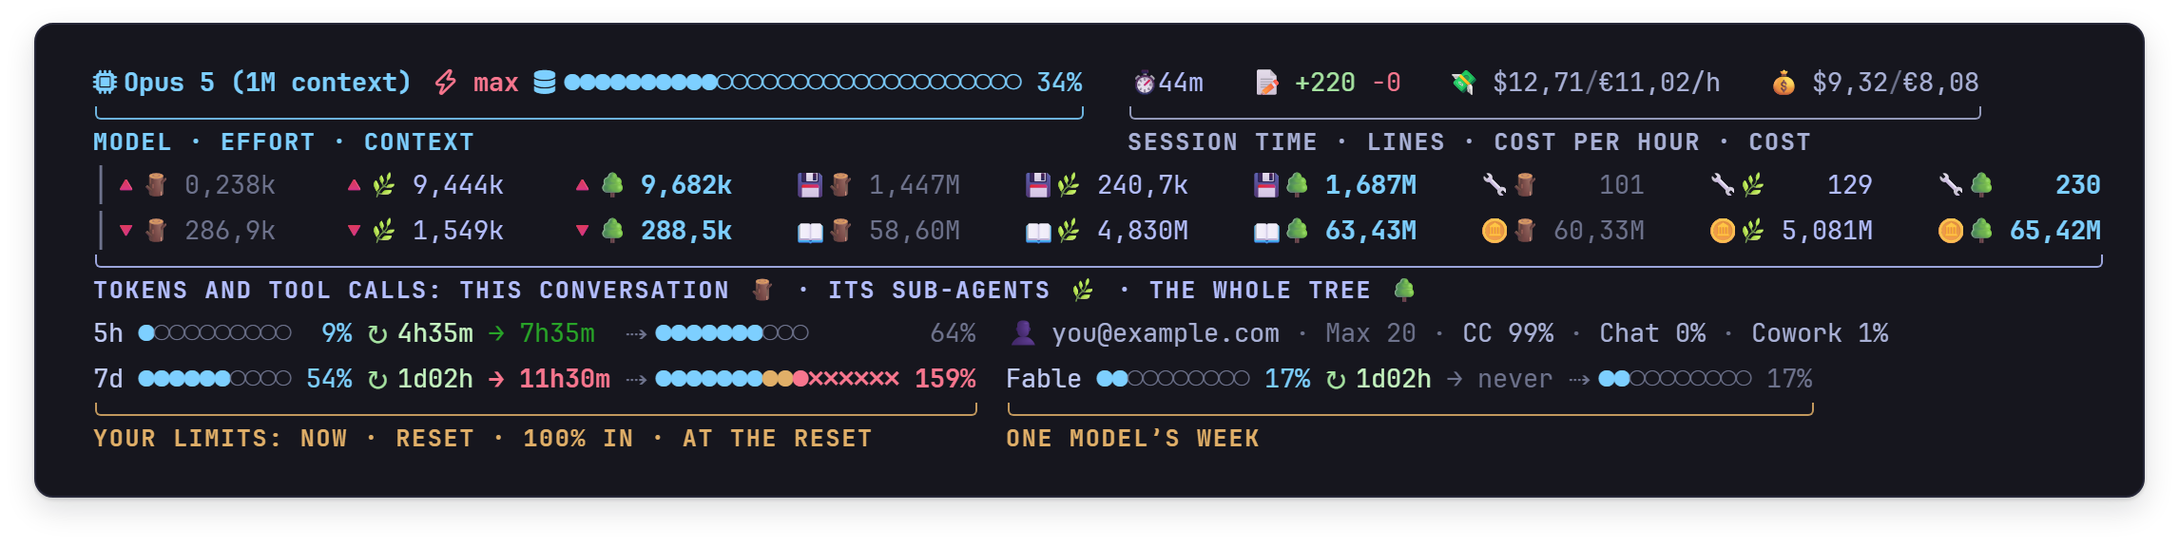
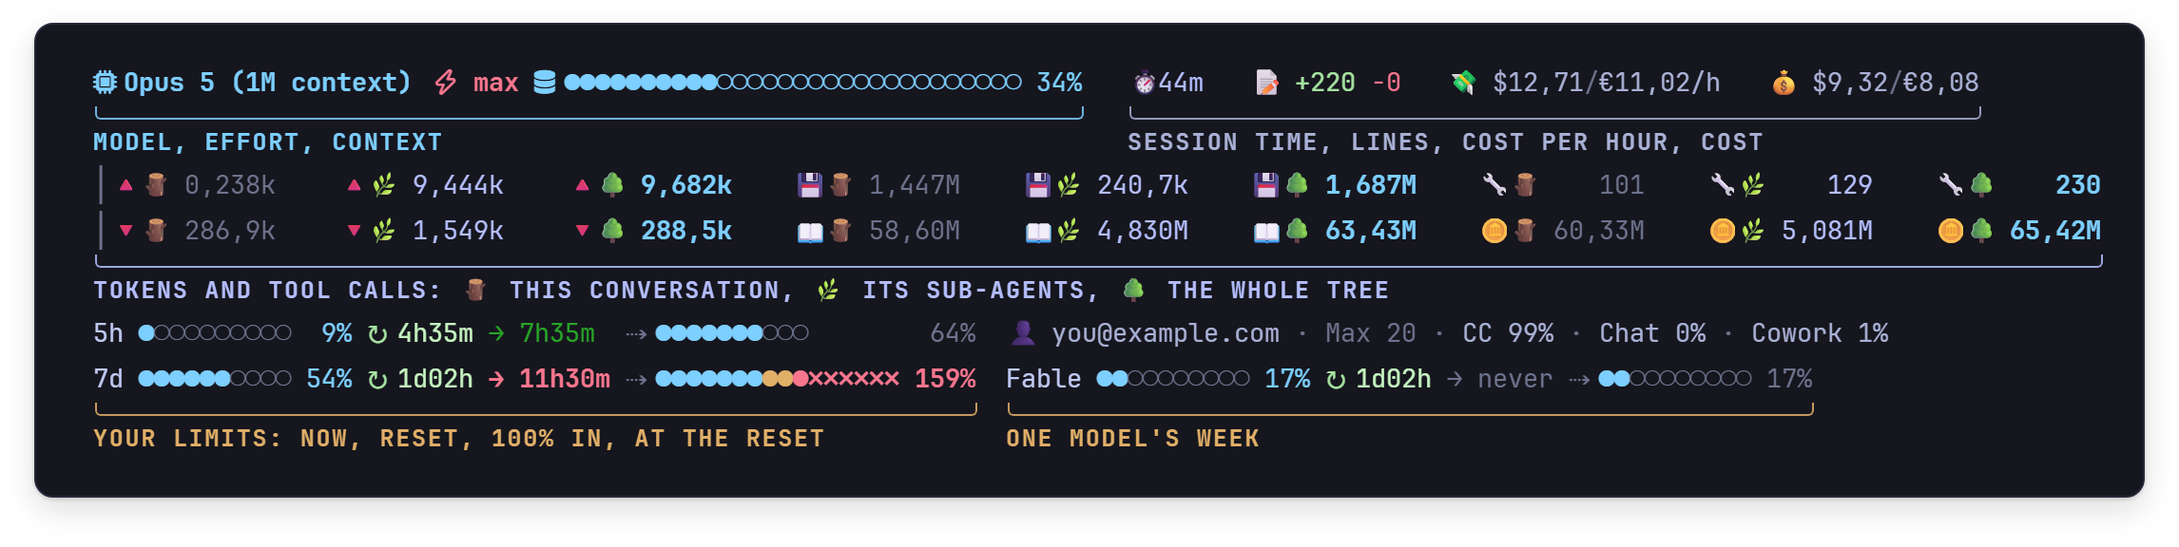
Use plain punctuation in the figures, their index and their generator

diff --git a/docs/assets/figures.gen.js b/docs/assets/figures.gen.js
@@ -11,13 +11,13 @@
 // device that stays dark in both themes. Here it is also the only thing on a transparent ground, so
 // a figure reads the same on GitHub's light and dark pages.
 //
-// Nothing on a terminal line is typed. Each figure names renders in tests/expected — the exact
-// bytes the deployed binary drew for a fixture at a width, which the render tests hold every build
-// to — and which of their lines and columns to show. So a figure cannot drift from the binary
-// without the render tests failing first, and a change of output recorded with
-// `Test-Renders.ps1 -Update` is the one reason to regenerate. The generator refuses to run on a
-// colour outside the palette, a glyph whose width it does not know, a callout whose text it cannot
-// find, a crop through a two-column cell, or a label that leaves its device or meets another.
+// Nothing on a terminal line is typed: each figure names renders in tests/expected (the exact bytes
+// the deployed binary drew for a fixture at a width, which the render tests hold every build to) and
+// which of their lines and columns to show. So a figure cannot drift from the binary without the
+// render tests failing first, and a change of output recorded with `Test-Renders.ps1 -Update` is the
+// one reason to regenerate. The generator refuses to run on a colour outside the palette, a glyph
+// whose width it does not know, a callout whose text it cannot find, a crop through a two-column
+// cell, or a label that leaves its device or meets another.
 'use strict';
 const fs = require('fs');
 const path = require('path');
@@ -28,7 +28,7 @@ const ROOT = path.resolve(__dirname, '..', '..');
 const EXPECTED = path.join(ROOT, 'tests', 'expected');
 const WORK = path.join(ROOT, '.work', 'figures');
 
-// ───────────────────────────────────────────── ANSI → cells
+// ---- ANSI to cells
 // Program.cs's palette, by the SGR triple it writes. cship adds one colour of its own: the model name
 // is "bold cyan" in config/cship.toml, ANSI colour 6, whose RGB is up to the terminal's scheme; it is
 // drawn as the palette's cyan, the colour the same config gives the context bar. Text with no colour
@@ -37,7 +37,7 @@ const RGB = { '125;207;255': 'cy', '224;175;104': 'or', '247;118;142': 'rd', '11
               '198;246;193': 'lg', '169;177;214': 'tx', '180;190;254': 'lv', '40;164;40': 'fo' };
 const ANSI = { 36: 'cy' };
 // How many columns Windows Terminal gives each character the renders contain. Wide: East-Asian Wide
-// with emoji presentation — the token grid is laid out on that assumption (install.md). Narrow:
+// with emoji presentation, which is what the token grid is laid out for (install.md). Narrow:
 // Neutral or Ambiguous, and the Private Use Area, where cship's two Nerd Font icons live. Anything
 // else stops the generator until someone has looked its width up.
 const NARROW = new Set([0xB7, 0x2014, 0x2026, 0x20AC, 0x2192, 0x21BB, 0x21E2, 0x23F1, 0x2502, 0x25CB, 0x25CF, 0x26A0, 0x2717]);
@@ -72,7 +72,7 @@ function toCells(line) {
   return out;
 }
 const width = cells => cells.reduce((n, c) => n + c.w, 0);
-// The plain text with one UTF-16 unit per column — a wide emoji is already two, ⚡ gets a filler —
+// The plain text with one UTF-16 unit per column (a wide emoji is already two, ⚡ gets a filler),
 // so a regex match index is a column. Match without the u flag.
 const colText = cells => cells.map(c => c.w === 2 && c.ch.length === 1 ? c.ch + '\u200B' : c.ch).join('');
 function span(cells, re, from = 0) {
@@ -86,7 +86,7 @@ function crop(cells, c0, c1 = Infinity) {
   for (const c of cells) {
     const a = col, b = col + c.w; col = b;
     if (b <= c0 || a >= c1) continue;
-    if (a < c0 || b > c1) throw new Error(`a crop at columns ${c0}–${c1} splits ${JSON.stringify(c.ch)} at ${a}`);
+    if (a < c0 || b > c1) throw new Error(`a crop at columns ${c0}-${c1} splits ${JSON.stringify(c.ch)} at ${a}`);
     out.push(c);
   }
   return out;
@@ -109,11 +109,11 @@ const LEFT = /^ (\S.*?\d%)(?=  \S)/;
 function leftCol(cells, from = 1) { const s = span(cells, LEFT); return crop(cells, from, s.col + s.len); }
 function rightCol(cells) { const s = span(cells, LEFT); return crop(cells, s.col + s.len + 2); }
 
-// ───────────────────────────────────────────── scenes
+// ---- scenes
 // A scene is a device: lines of cells, each optionally with a gutter label and callouts. A callout
 // is a bracket on exact columns of its line, below it (or above, with up), and a label at the
-// bracket's start; labels share a strip row unless given row 1. Cells are 8 px wide at 13,33 px, JetBrains Mono's own advance, so a
-// glyph's box and its cell are the same thing.
+// bracket's start; labels share a strip row unless given row 1. Cells are 8 px wide at 13,33 px,
+// JetBrains Mono's own advance, so a glyph's box and its cell are the same thing.
 const CW = 8, LH = 24, FS = 13.333;
 const esc = s => String(s).replace(/&/g, '&amp;').replace(/</g, '&lt;').replace(/>/g, '&gt;').replace(/"/g, '&quot;');
 const mk = (s, text, tone = 'or', o = {}) => ({ col: s.col, len: s.len, text, tone, ...o });
@@ -142,39 +142,39 @@ const SCENES = [];
 // id, what it shows (the index's description and the default alt text), how it is drawn
 function scene(id, shows, build) { SCENES.push({ id, shows, build }); }
 
-// ─── plain: the hero's render with nothing added, exactly what the terminal shows
+// plain: the hero's render with nothing added, exactly what the terminal shows
 scene('plain', 'The whole status line exactly as the terminal shows it at the default 141 columns, with nothing added.', () => {
   const R = 'showcase.w141';
   return terminal({ big: true, lines: [0, 1, 2, 3, 4].map(i => ({ cells: line(R, i) })) });
 });
 
-// ─── the hero: every row at once, at the default width
+// hero: every row at once, at the default width
 scene('hero', 'The whole status line at the default 141 columns: the model line with the meta segment, the token grid, the limit rows with the account and the breakdown.', () => {
   const R = 'showcase.w141', L = [0, 1, 2, 3, 4].map(i => line(R, i));
   return terminal({ big: true, lines: [
-    { cells: L[0], marks: [mk(span(L[0], /\S.*?\d+%/), 'model · effort · context', 'cy'),
-                           mk(span(L[0], /⏱.*\S/), 'session time · lines · cost per hour · cost', 'tx')] },
+    { cells: L[0], marks: [mk(span(L[0], /\S.*?\d+%/), 'model, effort, context', 'cy'),
+                           mk(span(L[0], /⏱.*\S/), 'session time, lines, cost per hour, cost', 'tx')] },
     { cells: L[1] },
-    { cells: L[2], marks: [mk(span(L[2], /│.*\S/), 'tokens and tool calls: this conversation 🪵 · its sub-agents 🌿 · the whole tree 🌳', 'lv')] },
+    { cells: L[2], marks: [mk(span(L[2], /│.*\S/), 'tokens and tool calls: 🪵 this conversation, 🌿 its sub-agents, 🌳 the whole tree', 'lv')] },
     { cells: L[3] },
-    { cells: L[4], marks: [mk(span(L[4], /7d.*?\d%(?=  )/), 'your limits: now · reset · 100% in · at the reset', 'or'),
-                           mk(span(L[4], /Fable.*\S/), 'one model’s week', 'or')] },
+    { cells: L[4], marks: [mk(span(L[4], /7d.*?\d%(?=  )/), 'your limits: now, reset, 100% in, at the reset', 'or'),
+                           mk(span(L[4], /Fable.*\S/), "one model's week", 'or')] },
   ] });
 });
 
-// ─── limits: the left column of the shot fixture — the screenshot of 23 September, 19:57 — every segment named
+// limits: the left column of the shot fixture (the screenshot of 23 September, 19:57), every segment named
 scene('limits', 'The 5h and 7d rows of the `shot` fixture, every segment named: 7d at 89% runs out in 4h35m, before its reset, so the time is red; 5h resets before it would, so its time is forest green.', () => {
   const R = 'shot.w141', a = leftCol(line(R, 1)), b = leftCol(line(R, 2));
   return terminal({ lines: [
-    { cells: a, marks: [mk(span(a, /→ \S+/), '100% in · forest: the reset comes first', 'fo', { up: true })] },
+    { cells: a, marks: [mk(span(a, /→ \S+/), '100% in: forest, the reset comes first', 'fo', { up: true })] },
     { cells: b, marks: [mk(span(b, /●.*?\d+%/), 'used now', 'cy'), mk(span(b, /↻ \S+/), 'resets in', 'gr'),
                         mk(span(b, /⇢.*%/), 'at the reset, at this pace', 'rd'),
-                        mk(span(b, /→ \S+/), '100% in · red: before the reset', 'rd', { row: 1 })] },
+                        mk(span(b, /→ \S+/), '100% in: red, before the reset', 'rd', { row: 1 })] },
   ] });
 });
 
-// ─── the → traffic light, a row of each kind
-scene('states', 'One limit row per state of →: red, forest, never, early, and maxed with its ⇢ segment greyed.', () => {
+// states: the → traffic light, a row of each kind
+scene('states', 'One limit row per state of `→`: red, forest, never, early, and maxed with its `⇢` segment greyed.', () => {
   const rows = [['red', leftCol(line('shot.w141', 2)), 'rd', '100% comes before the reset'],
                 ['forest', leftCol(line('shot.w141', 1)), 'fo', 'the reset comes first'],
                 ['never', rightCol(line('shot.w141', 2)), 'dm', 'not moving'],
@@ -183,29 +183,29 @@ scene('states', 'One limit row per state of →: red, forest, never, early, and 
   return terminal({ gut: 8, lines: rows.map(([g, cells, tone, note]) => ({ cells: trimEnd(cells), gut: g, marks: [mk(span(cells, /→ \S+/), note, tone)] })) });
 });
 
-// ─── a first session: no token rows before the first reply, no ⚠ row, and no trend yet
-scene('first-run', 'A session seconds old, before its first reply, with no history yet: the model line, then the limit rows, every one reading → early; no token rows and no ⚠ row.', () => {
+// first-run: a new session has no token rows before the first reply, no ⚠ row, and no trend yet
+scene('first-run', 'A session seconds old, before its first reply, with no history yet: the model line, then the limit rows, every one reading `→ early`; no token rows and no ⚠ row.', () => {
   const R = 'rows-early.w141', L = [0, 1, 2].map(i => trimEnd(line(R, i)));
   return terminal({ lines: [{ cells: L[0] }, { cells: L[1] },
     { cells: L[2], marks: [mk(span(L[2], /→ early/), 'early: a trend needs ten minutes of history', 'tx')] }] });
 });
 
-// ─── the rows stacked, at 100 columns
+// stacked: the limit rows at 100 columns
 scene('stacked', 'At 100 columns the limit rows stack, with the account on a line of its own.', () =>
   terminal({ lines: [3, 4, 5, 6].map(i => ({ cells: trimEnd(line('showcase.w100', i)) })) }));
 
-// ─── the account and where the week went
-scene('breakdown', 'The account line: the signed-in address, the plan, and how this week’s usage split across products.', () => {
+// breakdown: the account, and where the week went
+scene('breakdown', "The account line: the signed-in address, the plan, and how this week's usage split across products.", () => {
   const a = rightCol(line('showcase.w141', 3));
-  return terminal({ lines: [{ cells: a, marks: [mk(span(a, /👤.*Max 20/), 'account · plan', 'tx'), mk(span(a, /CC.*\S/), 'where this week went', 'cy')] }] });
+  return terminal({ lines: [{ cells: a, marks: [mk(span(a, /👤.*Max 20/), 'account and plan', 'tx'), mk(span(a, /CC.*\S/), 'where this week went', 'cy')] }] });
 });
 scene('breakdown-fit', 'The breakdown in whole entries or none: every entry, then without its 0% entries, then none, as the address grows.', () => {
   const rows = [['all', 'showcase.w141', 3], ['no 0%', 'long-email-35.w141', 1], ['none', 'long-email-46.w141', 1]];
   return terminal({ gut: 7, lines: rows.map(([g, R, i]) => ({ cells: rightCol(line(R, i)), gut: g })) });
 });
 
-// ─── cship's half of the model line, and the meta segment StatusAI appends to it
-scene('model', 'cship’s model line: the model, the effort level and a 30-cell context bar.', () => {
+// model, meta, context-cost: cship's half of the model line, and the meta segment StatusAI appends to it
+scene('model', "cship's model line: the model, the effort level and a 30-cell context bar.", () => {
   const L = line('showcase.w141', 0), m = span(L, /\S.*?\d+%/), c = crop(L, 0, m.col + m.len);
   return terminal({ lines: [{ cells: c, marks: [mk(span(c, /\S Opus.*?\)/), 'model', 'cy'), mk(span(c, /⚡\u200B \S+/), 'effort', 'rd'),
                                                   mk(span(c, /●.*%/), 'context used', 'cy')] }] });
@@ -216,13 +216,13 @@ scene('meta', 'The meta segment: session time, lines added and removed, cost per
                                                   mk(span(c, /💸 \S+/), 'cost per hour', 'tx'), mk(span(c, /💰 \S+/), 'cost so far', 'tx')] }] });
 });
 
-scene('context-cost', 'The model line from its context bar on: how full the context is, then the meta segment — session time, lines changed, cost per hour and cost so far.', () => {
+scene('context-cost', 'The model line from its context bar on: how full the context is, then the meta segment (session time, lines changed, cost per hour and cost so far).', () => {
   const L = line('showcase.w141', 0), s = span(L, /●.*\S/), c = crop(L, s.col, s.col + s.len);
   return terminal({ lines: [{ cells: c, marks: [mk(span(c, /●.*?%/), 'context used', 'cy'), mk(span(c, /⏱ \S+/), 'session', 'lv'),
     mk(span(c, /📝 \S+ \S+/), 'lines', 'gr'), mk(span(c, /💸 \S+/), 'cost per hour', 'tx'), mk(span(c, /💰 \S+/), 'cost so far', 'tx')] }] });
 });
 
-// ─── the token grid at 120 columns, its gutters at their narrowest
+// tokens: the token grid at 120 columns, its gutters at their narrowest
 scene('tokens', 'The token grid: three groups of three columns, each group one kind of count, each column one scope.', () => {
   const R = 'showcase.w120', a = line(R, 1), b = line(R, 2);
   const group = (re, text) => mk(span(a, re), text, 'tx', { up: true });
@@ -235,7 +235,7 @@ scene('tokens', 'The token grid: three groups of three columns, each group one k
   ] });
 });
 
-// ─── warnings: all three kinds of ⚠ row, in their order
+// warnings: all three kinds of ⚠ row, in their order
 scene('warnings', 'The three kinds of ⚠ row, in the order they come: a source that failed, in red; a limit this status line does not draw yet, in amber; usage billed beyond the plan, in red and always last.', () => {
   const R = 'every-warning.w120', w = [3, 4, 5].map(i => trimEnd(line(R, i)));
   return terminal({ lines: [{ cells: leftCol(line(R, 2), 0) },
@@ -244,11 +244,10 @@ scene('warnings', 'The three kinds of ⚠ row, in the order they come: a source 
     { cells: w[2], marks: [mk(span(w[2], /⚠.*\S/), 'billed beyond the plan: always the last row', 'rd')] }] });
 });
 
-// ─── one usage fetch for every open session: the rule in Program.cs, played out
+// sessions: one usage fetch for every open session, the rule in Program.cs played out.
 // GetUsage(): a render draws the cached rows while they are under 50 s old; otherwise the one render
 // that wins the lock fetches, and every other draws the last cached rows rather than wait. The
-// render times are an illustration — three sessions, the middle one busy — and the rule is the
-// code's.
+// render times are an illustration (three sessions, the middle one busy); the rule is the code's.
 const RENDER_TIMES = [[8, 68, 128, 188, 248], [21, 33, 47, 60, 84, 97, 139, 152, 170, 199, 216, 244, 262, 279], [55, 115, 175, 235, 295]];
 function playFetches(times, fresh = 50) {
   const ev = times.flatMap((ts, s) => ts.map(t => ({ t, s }))).sort((x, y) => x.t - y.t);
@@ -280,16 +279,16 @@ scene('sessions', 'An illustration of three open sessions over five minutes: eac
   const n = ev.filter(e => e.fetch).length;
   const svg = `<svg viewBox="0 0 ${Wd} ${H}" width="${Wd}" height="${H}" role="img">${g}</svg>`;
   const legend = `<div class="legend"><span><i class="dot on"></i>fetched, for every session</span><span><i class="dot"></i>drew the shared copy</span>`
-               + `<span><i class="band"></i>fresh for 50 s</span><span class="sum">an illustration · ${ev.length} renders · ${n} fetches</span></div>`;
+               + `<span><i class="band"></i>fresh for 50 s</span><span class="sum">an illustration: ${ev.length} renders, ${n} fetches</span></div>`;
   return { html: `<div class="dev viz">${legend}${svg}</div>`, from: 'the rule in `GetUsage()`, played out over invented render times' };
 });
 
-// ─── the download button
+// download: the button
 scene('download', 'A button: Download for Windows.', () => ({ html: `<div class="btn"><svg viewBox="0 0 24 24" width="22" height="22" aria-hidden="true">
   <path d="M12 3v11m0 0-4.5-4.5M12 14l4.5-4.5M4 16v3a2 2 0 0 0 2 2h12a2 2 0 0 0 2-2v-3" fill="none" stroke="#16161E" stroke-width="2.2"
   stroke-linecap="round" stroke-linejoin="round"/></svg><span>Download for Windows</span></div>`, shotClass: 'bt', from: 'the palette: cyan on the terminal ground' }));
 
-// ─── the decisions page, as it draws itself: its week chart
+// decisions-week: the week chart of the decisions page, as the page draws it
 scene('decisions-week', 'The week chart from the decisions page: the 7d meter and three ways of forecasting it, minute by minute, from Saturday 05:00 to Wednesday 20:03.', () => ({
   capture: { file: path.join(ROOT, 'docs', 'design', 'limits-decisions.html'), selector: '#week-viz', width: 1044,
              // only the chart: the page around it keeps its layout but is not drawn, and the hint to
@@ -298,7 +297,7 @@ scene('decisions-week', 'The week chart from the decisions page: the 7d meter an
                 + '#week-viz, #week-viz *{visibility:visible!important} #week-viz #xh{visibility:hidden!important} .vizhelp{display:none} '
                 + '#week-viz{box-shadow:0 1px 2px rgba(10,12,20,.14),0 6px 16px rgba(10,12,20,.14)!important}' } }));
 
-// ───────────────────────────────────────────── page
+// ---- page
 const css = `
 @font-face{font-family:Term; src:local("JetBrainsMono NF"), local("JetBrainsMono NF Regular"), local("JetBrainsMonoNF-Regular"); font-weight:400}
 @font-face{font-family:Term; src:local("JetBrainsMono NF Bold"), local("JetBrainsMonoNF-Bold"); font-weight:700}
@@ -339,10 +338,10 @@ body{font-family:"Segoe UI",system-ui,sans-serif}
 const page = (body, title) =>
   `<!doctype html><html lang="en"><head><meta charset="utf-8"><title>${esc(title)}</title><style>${css}</style></head><body>${body}</body></html>`;
 
-// ───────────────────────────────────────────── Edge, headless, over the DevTools protocol
-// One browser with its own profile in .work, on a port the OS picks, so it never meets the user's
-// Edge or another agent's. Each figure is a clip of one element at twice the density, on a
-// transparent background.
+// ---- Edge, headless, over the DevTools protocol
+// One browser with its own profile in .work, on a port the OS picks, so it never meets your own Edge
+// or one that something else started. Each figure is a clip of one element at twice the density, on
+// a transparent background.
 function findEdge() {
   const c = [process.env.EDGE, 'C:\\Program Files (x86)\\Microsoft\\Edge\\Application\\msedge.exe',
              'C:\\Program Files\\Microsoft\\Edge\\Application\\msedge.exe'].filter(Boolean);
@@ -447,7 +446,7 @@ const CLIP = (sel, css) => `(() => {
   return { x, y, width: Math.ceil(b.right + 18) - x, height: Math.ceil(b.bottom + scrollY + 26) - y };
 })()`;
 
-// ───────────────────────────────────────────── run
+// ---- run
 async function main() {
   const args = process.argv.slice(2), check = args.includes('--check'), only = args.filter(a => !a.startsWith('--'));
   const outDir = check ? path.join(WORK, 'check') : __dirname;
@@ -482,7 +481,7 @@ async function main() {
     }
   } finally { await close(); }
   for (const r of report)
-    console.log(`${r.id.padEnd(15)} ${String(r.w).padStart(5)} × ${String(r.h).padEnd(4)} CSS px  ${(r.bytes / 1024).toFixed(0).padStart(4)} KB`
+    console.log(`${r.id.padEnd(15)} ${String(r.w).padStart(5)} x ${String(r.h).padEnd(4)} CSS px  ${(r.bytes / 1024).toFixed(0).padStart(4)} KB`
               + (r.cols ? `  widest line ${r.cols} columns` : '') + `  ${r.src.join(', ')}`);
   console.log(`${report.length} figures, ${(report.reduce((n, r) => n + r.bytes, 0) / 1024).toFixed(0)} KB`);
   if (check) {
@@ -498,8 +497,8 @@ async function main() {
   if (!checkPages()) process.exitCode = 1;
 }
 // Every <img> of a figure in the Markdown pages: the figure exists, it has alt text, and its width
-// attribute is its CSS width — half the PNG's — so GitHub draws it at its own size, or narrower
-// where the column is.
+// attribute is its CSS width (half the PNG's), so GitHub draws it at its own size, or narrower where
+// the column is.
 function checkPages() {
   const pages = ['README.md'], walk = d => fs.readdirSync(d, { withFileTypes: true }).forEach(e => {
     const p = path.join(d, e.name);
@@ -527,24 +526,24 @@ function checkPages() {
 // docs/assets/README.md: what each figure shows, what it is drawn from, and its size
 function index(report) {
   const rows = report.map(r => `| [${r.id}.png](${r.id}.png) | ${r.shows} | ${[...r.src.map(s => /^[\w-]+\.w\d+$/.test(s) ? `\`${s}\``
-    : `[${path.basename(s)}](${path.relative(__dirname, path.join(ROOT, s)).replace(/\\/g, '/')})`), ...(r.from ? [r.from] : [])].join(', ')} | ${r.w} × ${r.h} |`);
-  fs.writeFileSync(path.join(__dirname, 'README.md'), `<sub>[StatusAI](../../README.md) › [Documentation](../README.md)</sub>
+    : `[${path.basename(s)}](${path.relative(__dirname, path.join(ROOT, s)).replace(/\\/g, '/')})`), ...(r.from ? [r.from] : [])].join(', ')} | ${r.w} x ${r.h} |`);
+  fs.writeFileSync(path.join(__dirname, 'README.md'), `<sub>[StatusAI](../../README.md) / [Documentation](../README.md)</sub>
 
 # Figures
 
-Every image here is generated. [figures.gen.js](figures.gen.js) draws them from the render tests'
-expected output — the exact bytes the binary draws for each fixture, in
-[tests/expected](../../tests/expected) — in the [house style](../design/house-style/README.md), and
-Microsoft Edge, headless, turns each into a PNG at twice its size. Regenerate them all with
+Every image here is generated. [figures.gen.js](figures.gen.js) draws them in the
+[house style](../design/house-style/README.md) from the render tests' expected output, the exact
+bytes the binary draws for each fixture, which are kept in [tests/expected](../../tests/expected).
+Microsoft Edge, headless, then turns each one into a PNG at twice its size. Once a change of output
+has been recorded with \`Test-Renders.ps1 -Update\`, regenerate them all with
 
 \`\`\`bash
 node docs/assets/figures.gen.js
 \`\`\`
 
-after a change of output is recorded with \`Test-Renders.ps1 -Update\`; \`--check\` draws them into
-\`.work/figures/check\` and compares them with these, byte for byte. It needs Node, Edge and
-JetBrainsMono Nerd Font, and refuses to run on a colour outside the palette, a glyph whose width it
-does not know, or a callout that does not land.
+With \`--check\` it draws them into \`.work/figures/check\` instead and compares them with these, byte
+for byte. It needs Node, Edge and JetBrainsMono Nerd Font, and refuses to run on a colour outside the
+palette, a glyph whose width it does not know, or a callout that does not land.
 
 A render is named \`<case>.w<width>\`: the case in [tests/cases.json](../../tests/cases.json), drawn
 at that many columns. Sizes are CSS pixels; each PNG has twice as many.
@@ -553,7 +552,7 @@ at that many columns. Sizes are CSS pixels; each PNG has twice as many.
 |---|---|---|---|
 ${rows.join('\n')}
 
-The generator rewrites this page on every full run: edit the generator, not the page.
+The generator rewrites this page on every full run, so make changes in the generator and not here.
 `);
 }
 module.exports = { toCells, span, crop, width, colText, launch, playFetches, RENDER_TIMES };

diff --git a/docs/assets/README.md b/docs/assets/README.md
@@ -1,41 +1,41 @@
-<sub>[StatusAI](../../README.md) › [Documentation](../README.md)</sub>
+<sub>[StatusAI](../../README.md) / [Documentation](../README.md)</sub>
 
 # Figures
 
-Every image here is generated. [figures.gen.js](figures.gen.js) draws them from the render tests'
-expected output — the exact bytes the binary draws for each fixture, in
-[tests/expected](../../tests/expected) — in the [house style](../design/house-style/README.md), and
-Microsoft Edge, headless, turns each into a PNG at twice its size. Regenerate them all with
+Every image here is generated. [figures.gen.js](figures.gen.js) draws them in the
+[house style](../design/house-style/README.md) from the render tests' expected output, the exact
+bytes the binary draws for each fixture, which are kept in [tests/expected](../../tests/expected).
+Microsoft Edge, headless, then turns each one into a PNG at twice its size. Once a change of output
+has been recorded with `Test-Renders.ps1 -Update`, regenerate them all with
 
 ```bash
 node docs/assets/figures.gen.js
 ```
 
-after a change of output is recorded with `Test-Renders.ps1 -Update`; `--check` draws them into
-`.work/figures/check` and compares them with these, byte for byte. It needs Node, Edge and
-JetBrainsMono Nerd Font, and refuses to run on a colour outside the palette, a glyph whose width it
-does not know, or a callout that does not land.
+With `--check` it draws them into `.work/figures/check` instead and compares them with these, byte
+for byte. It needs Node, Edge and JetBrainsMono Nerd Font, and refuses to run on a colour outside the
+palette, a glyph whose width it does not know, or a callout that does not land.
 
 A render is named `<case>.w<width>`: the case in [tests/cases.json](../../tests/cases.json), drawn
 at that many columns. Sizes are CSS pixels; each PNG has twice as many.
 
 | figure | shows | drawn from | size |
 |---|---|---|---|
-| [plain.png](plain.png) | The whole status line exactly as the terminal shows it at the default 141 columns, with nothing added. | `showcase.w141` | 1146 × 198 |
-| [hero.png](hero.png) | The whole status line at the default 141 columns: the model line with the meta segment, the token grid, the limit rows with the account and the breakdown. | `showcase.w141` | 1146 × 288 |
-| [limits.png](limits.png) | The 5h and 7d rows of the `shot` fixture, every segment named: 7d at 89% runs out in 4h35m, before its reset, so the time is red; 5h resets before it would, so its time is forest green. | `shot.w141` | 586 × 197 |
-| [states.png](states.png) | One limit row per state of →: red, forest, never, early, and maxed with its ⇢ segment greyed. | `shot.w141`, `rows-early.w141`, `maxed-5h.w141` | 650 × 333 |
-| [first-run.png](first-run.png) | A session seconds old, before its first reply, with no history yet: the model line, then the limit rows, every one reading → early; no token rows and no ⚠ row. | `rows-early.w141` | 930 × 177 |
-| [stacked.png](stacked.png) | At 100 columns the limit rows stack, with the account on a line of its own. | `showcase.w100` | 554 × 174 |
-| [breakdown.png](breakdown.png) | The account line: the signed-in address, the plan, and how this week’s usage split across products. | `showcase.w141` | 546 × 129 |
-| [breakdown-fit.png](breakdown-fit.png) | The breakdown in whole entries or none: every entry, then without its 0% entries, then none, as the address grows. | `showcase.w141`, `long-email-35.w141`, `long-email-46.w141` | 682 × 150 |
-| [model.png](model.png) | cship’s model line: the model, the effort level and a 30-cell context bar. | `showcase.w141` | 610 × 129 |
-| [meta.png](meta.png) | The meta segment: session time, lines added and removed, cost per hour and cost so far, in dollars and euros. | `showcase.w141` | 530 × 129 |
-| [context-cost.png](context-cost.png) | The model line from its context bar on: how full the context is, then the meta segment — session time, lines changed, cost per hour and cost so far. | `showcase.w141` | 826 × 129 |
-| [tokens.png](tokens.png) | The token grid: three groups of three columns, each group one kind of count, each column one scope. | `showcase.w120` | 1018 × 180 |
-| [warnings.png](warnings.png) | The three kinds of ⚠ row, in the order they come: a source that failed, in red; a limit this status line does not draw yet, in amber; usage billed beyond the plan, in red and always last. | `every-warning.w120` | 754 × 255 |
-| [sessions.png](sessions.png) | An illustration of three open sessions over five minutes: each render either fetches the usage (only when the shared copy is 50 seconds old or more) or draws the shared copy. | the rule in `GetUsage()`, played out over invented render times | 794 × 283 |
-| [download.png](download.png) | A button: Download for Windows. | the palette: cyan on the terminal ground | 300 × 71 |
-| [decisions-week.png](decisions-week.png) | The week chart from the decisions page: the 7d meter and three ways of forecasting it, minute by minute, from Saturday 05:00 to Wednesday 20:03. | [limits-decisions.html](../design/limits-decisions.html) | 998 × 467 |
+| [plain.png](plain.png) | The whole status line exactly as the terminal shows it at the default 141 columns, with nothing added. | `showcase.w141` | 1146 x 198 |
+| [hero.png](hero.png) | The whole status line at the default 141 columns: the model line with the meta segment, the token grid, the limit rows with the account and the breakdown. | `showcase.w141` | 1146 x 288 |
+| [limits.png](limits.png) | The 5h and 7d rows of the `shot` fixture, every segment named: 7d at 89% runs out in 4h35m, before its reset, so the time is red; 5h resets before it would, so its time is forest green. | `shot.w141` | 586 x 197 |
+| [states.png](states.png) | One limit row per state of `→`: red, forest, never, early, and maxed with its `⇢` segment greyed. | `shot.w141`, `rows-early.w141`, `maxed-5h.w141` | 650 x 333 |
+| [first-run.png](first-run.png) | A session seconds old, before its first reply, with no history yet: the model line, then the limit rows, every one reading `→ early`; no token rows and no ⚠ row. | `rows-early.w141` | 930 x 177 |
+| [stacked.png](stacked.png) | At 100 columns the limit rows stack, with the account on a line of its own. | `showcase.w100` | 554 x 174 |
+| [breakdown.png](breakdown.png) | The account line: the signed-in address, the plan, and how this week's usage split across products. | `showcase.w141` | 546 x 129 |
+| [breakdown-fit.png](breakdown-fit.png) | The breakdown in whole entries or none: every entry, then without its 0% entries, then none, as the address grows. | `showcase.w141`, `long-email-35.w141`, `long-email-46.w141` | 682 x 150 |
+| [model.png](model.png) | cship's model line: the model, the effort level and a 30-cell context bar. | `showcase.w141` | 610 x 129 |
+| [meta.png](meta.png) | The meta segment: session time, lines added and removed, cost per hour and cost so far, in dollars and euros. | `showcase.w141` | 530 x 129 |
+| [context-cost.png](context-cost.png) | The model line from its context bar on: how full the context is, then the meta segment (session time, lines changed, cost per hour and cost so far). | `showcase.w141` | 826 x 129 |
+| [tokens.png](tokens.png) | The token grid: three groups of three columns, each group one kind of count, each column one scope. | `showcase.w120` | 1018 x 180 |
+| [warnings.png](warnings.png) | The three kinds of ⚠ row, in the order they come: a source that failed, in red; a limit this status line does not draw yet, in amber; usage billed beyond the plan, in red and always last. | `every-warning.w120` | 754 x 255 |
+| [sessions.png](sessions.png) | An illustration of three open sessions over five minutes: each render either fetches the usage (only when the shared copy is 50 seconds old or more) or draws the shared copy. | the rule in `GetUsage()`, played out over invented render times | 794 x 283 |
+| [download.png](download.png) | A button: Download for Windows. | the palette: cyan on the terminal ground | 300 x 71 |
+| [decisions-week.png](decisions-week.png) | The week chart from the decisions page: the 7d meter and three ways of forecasting it, minute by minute, from Saturday 05:00 to Wednesday 20:03. | [limits-decisions.html](../design/limits-decisions.html) | 998 x 467 |
 
-The generator rewrites this page on every full run: edit the generator, not the page.
+The generator rewrites this page on every full run, so make changes in the generator and not here.
